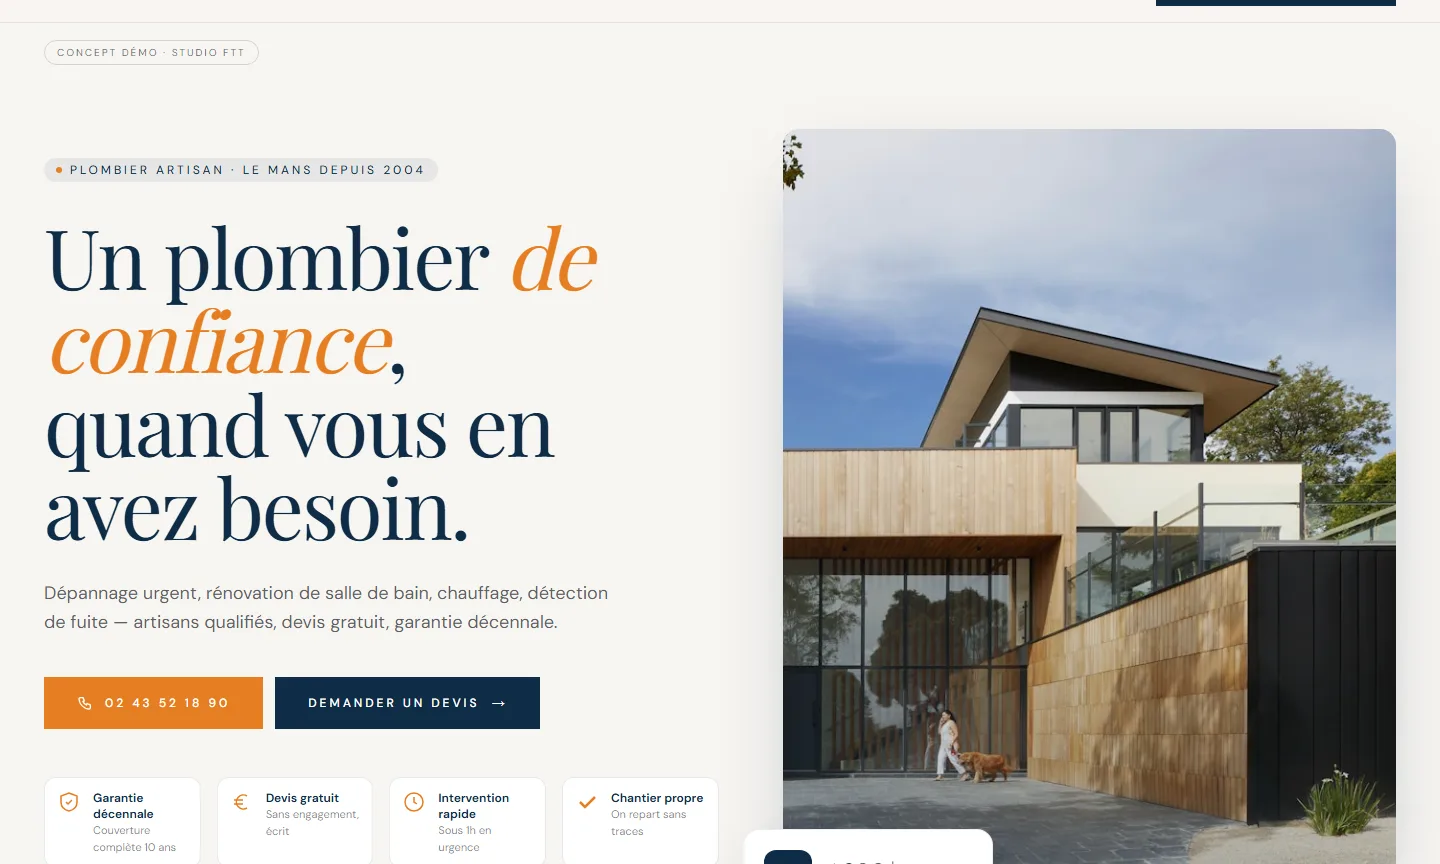
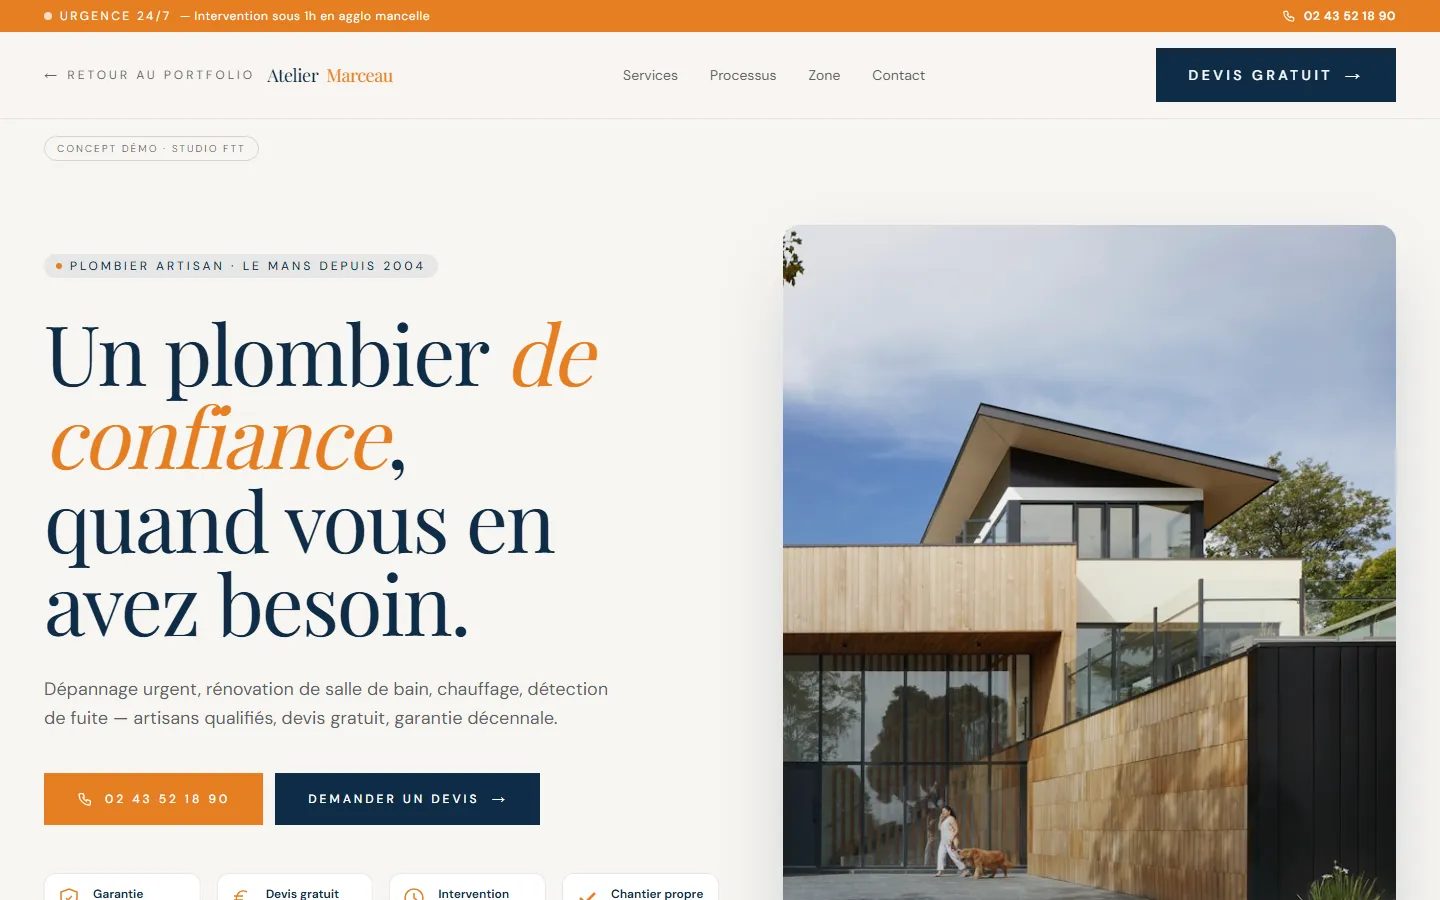
perf(home): previews projets en captures statiques webp — plus aucune iframe
- 6 vignettes = captures 1440×900 des vrais sites (même rendu que les iframes, bandeaux compris)
- Fini les 5 sites complets chargés en arrière-plan : mobile fluide, ~240 KB d'images lazy au total
- Composant StaticPreview unique, LiveIframePreview supprimé
- Procédure de rafraîchissement documentée en tête de fichier

diff --git a/components/ProjectPreviews.tsx b/components/ProjectPreviews.tsx
@@ -1,125 +1,84 @@
-"use client";
-
-import { useEffect, useRef, useState } from "react";
-
 /**
- * Mini-previews fidèles aux hero des pages projet.
- * Rendus dans une card 16/10 — reproduisent le look-and-feel
- * du haut de chaque site.
+ * Mini-previews des projets — captures statiques des vrais sites (1440×900,
+ * même viewport que les anciennes iframes). Des photos, pas d'iframes :
+ * rien ne charge, rien ne rame sur mobile. Rendues dans une card 16/10,
+ * elles remplissent la card pile.
+ *
+ * Pour rafraîchir une capture après une évolution d'un site :
+ * chrome headless --window-size=1440,900 --screenshot sur l'URL du site,
+ * puis sharp → webp 80 dans public/preview-<nom>.webp.
  */
+
+function StaticPreview({ src, alt, bg }: { src: string; alt: string; bg: string }) {
+  return (
+    <div className="absolute inset-0 overflow-hidden" style={{ background: bg }}>
+      <img
+        src={src}
+        alt={alt}
+        className="absolute inset-0 w-full h-full object-cover object-top"
+        loading="lazy"
+        decoding="async"
+      />
+    </div>
+  );
+}
 
 export function ScavbackPreview() {
   return (
-    <LiveIframePreview
-      src="https://scavback.pages.dev/"
+    <StaticPreview
+      src="/preview-scavback.webp"
+      alt="Aperçu du site SCAVBACK — collectif créatif"
       bg="#0a0a0a"
-      label="SCAVBACK — preview"
     />
   );
 }
 
 export function SprayfilmPreview() {
   return (
-    <div className="absolute inset-0 bg-[#171717] overflow-hidden">
-      <img
-        src="/preview-sprayfilm.webp"
-        alt="Aperçu du site Sprayfilm — production audiovisuelle"
-        className="absolute inset-0 w-full h-full object-cover object-center"
-        loading="lazy"
-      />
-    </div>
-  );
-}
-
-// Live iframe preview — shows the actual demo hero from the live HTML site.
-// Renders the demo at a fixed 1440px viewport, then scales it to fit
-// the card. ResizeObserver keeps the scale in sync with the card width.
-function LiveIframePreview({
-  src,
-  bg,
-  label,
-}: {
-  src: string;
-  bg: string;
-  label: string;
-}) {
-  const wrapRef = useRef<HTMLDivElement | null>(null);
-  const [scale, setScale] = useState(0.5);
-
-  useEffect(() => {
-    const el = wrapRef.current;
-    if (!el) return;
-    const ro = new ResizeObserver(([entry]) => {
-      const w = entry.contentRect.width;
-      if (w > 0) setScale(w / 1440);
-    });
-    ro.observe(el);
-    return () => ro.disconnect();
-  }, []);
-
-  return (
-    <div
-      ref={wrapRef}
-      className="absolute inset-0 overflow-hidden"
-      style={{ background: bg }}
-    >
-      <iframe
-        src={src}
-        title={label}
-        loading="lazy"
-        scrolling="no"
-        tabIndex={-1}
-        aria-hidden
-        style={{
-          width: "1440px",
-          height: "900px",
-          border: 0,
-          pointerEvents: "none",
-          display: "block",
-          transform: `scale(${scale})`,
-          transformOrigin: "top left",
-        }}
-      />
-    </div>
+    <StaticPreview
+      src="/preview-sprayfilm.webp"
+      alt="Aperçu du site Sprayfilm — production audiovisuelle"
+      bg="#171717"
+    />
   );
 }
 
 export function GarageKlaxPreview() {
   return (
-    <LiveIframePreview
-      src="/demo/garage-klax/index.html"
+    <StaticPreview
+      src="/preview-klax.webp"
+      alt="Aperçu de la démo Garage Klax — garage indépendant"
       bg="#F7F5F0"
-      label="Garage Klax — preview"
     />
   );
 }
 
 export function SigmaLiftPreview() {
   return (
-    <LiveIframePreview
-      src="/demo/sigma-lift/index.html"
+    <StaticPreview
+      src="/preview-sigma.webp"
+      alt="Aperçu de la démo Sigma Lift — coaching sportif en ligne"
       bg="#0A0A0A"
-      label="Sigma Lift — preview"
     />
   );
 }
 
 export function MarceauPreview() {
   return (
-    <LiveIframePreview
-      src="/projets/marceau"
+    <StaticPreview
+      src="/preview-marceau.webp"
+      alt="Aperçu de la démo Atelier Marceau — plombier artisan"
       bg="#F7F4EF"
-      label="Atelier Marceau — preview"
     />
   );
 }
 
 export function CabinetAtlasPreview() {
   return (
-    <LiveIframePreview
-      src="/demo/cabinet-atlas/index.html"
+    <StaticPreview
+      src="/preview-atlas.webp"
+      alt="Aperçu de la démo Cabinet Atlas — cabinet kiné & ostéo"
       bg="#F5EFE6"
-      label="Cabinet Atlas — preview"
     />
   );
 }